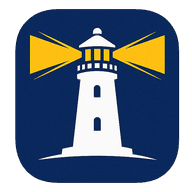
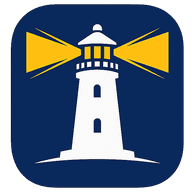
Fix safe area, ícono maskable y transición de tabs
Safe area (iPhone Dynamic Island / Android):
- body padding-top: env(safe-area-inset-top) → el contenido no
  choca con la barra de status ni el Dynamic Island
- BottomNav padding-bottom: env(safe-area-inset-bottom) → gestos
  de Android y home indicator de iOS no tapan los tabs

Ícono PWA maskable:
- 25% de padding alrededor del logo con fondo navy #0B1733
- El faro queda centrado y visible en el recorte círculo/squircle
  de Android al agregar a pantalla de inicio

Transición de tabs:
- Animación fadeSlideIn (0.15s) al navegar entre páginas
- Elimina la sensación de "salto brusco" entre pestañas

Changed region(s): [[0.0312, 0.0, 0.9688, 1.0], [0.4688, 0.5938, 0.5312, 0.7188], [0.4688, 0.4375, 0.5312, 0.5]]

diff --git a/client/pwa-assets.config.js b/client/pwa-assets.config.js
@@ -1,12 +1,27 @@
-import {
-  defineConfig,
-  minimal2023Preset as preset,
-} from '@vite-pwa/assets-generator/config'
+import { defineConfig } from '@vite-pwa/assets-generator/config'
 
 export default defineConfig({
   headLinkOptions: {
     preset: '2023',
   },
-  preset,
+  preset: {
+    transparent: {
+      sizes: [64, 192, 512],
+      favicons: [[48, 'favicon.ico']],
+      padding: 0,
+    },
+    maskable: {
+      sizes: [512],
+      // 25% de padding → el logo ocupa el 50% central (safe zone garantizada).
+      // Fondo navy para que el recorte circular/squircle se vea limpio.
+      padding: 0.25,
+      resizeOptions: { background: '#0B1733' },
+    },
+    apple: {
+      sizes: [180],
+      padding: 0.1,
+      resizeOptions: { background: '#0B1733' },
+    },
+  },
   images: ['public/faro-icon.png'],
 })

diff --git a/client/src/components/BottomNav.jsx b/client/src/components/BottomNav.jsx
@@ -10,7 +10,10 @@ const TABS = [
 
 export default function BottomNav() {
   return (
-    <nav className="fixed bottom-0 inset-x-0 z-10 bg-white/95 backdrop-blur border-t border-slate-200">
+    <nav
+      className="fixed bottom-0 inset-x-0 z-10 bg-white/95 backdrop-blur border-t border-slate-200"
+      style={{ paddingBottom: 'env(safe-area-inset-bottom, 0px)' }}
+    >
       <ul className="grid grid-cols-5 max-w-md mx-auto">
         {TABS.map((t) => (
           <li key={t.to}>
@@ -25,7 +28,6 @@ export default function BottomNav() {
             >
               {({ isActive }) => (
                 <>
-                  {/* Beam indicator — luz superior en el tab activo */}
                   {isActive && (
                     <span
                       aria-hidden="true"

diff --git a/client/src/index.css b/client/src/index.css
@@ -4,10 +4,25 @@
 
 :root {
   color-scheme: light;
+  /* Safe area para notch / Dynamic Island / Android gestures */
+  --sat: env(safe-area-inset-top, 0px);
+  --sab: env(safe-area-inset-bottom, 0px);
 }
 
 body {
   margin: 0;
   font-family: system-ui, 'Segoe UI', Roboto, sans-serif;
   -webkit-font-smoothing: antialiased;
+  /* Respeta la zona de status bar en iOS/Android */
+  padding-top: var(--sat);
+}
+
+/* Transición suave al navegar entre pestañas */
+.page-enter {
+  animation: fadeSlideIn 0.15s ease-out;
+}
+
+@keyframes fadeSlideIn {
+  from { opacity: 0; transform: translateY(6px); }
+  to   { opacity: 1; transform: translateY(0); }
 }

diff --git a/client/src/components/Layout.jsx b/client/src/components/Layout.jsx
@@ -4,7 +4,7 @@ import BottomNav from './BottomNav'
 export default function Layout() {
   return (
     <div className="min-h-screen bg-gradient-to-b from-slate-50 via-slate-50 to-navy-50 text-slate-800">
-      <div className="max-w-md mx-auto pb-24">
+      <div className="max-w-md mx-auto pb-28 page-enter">
         <Outlet />
       </div>
       <BottomNav />
